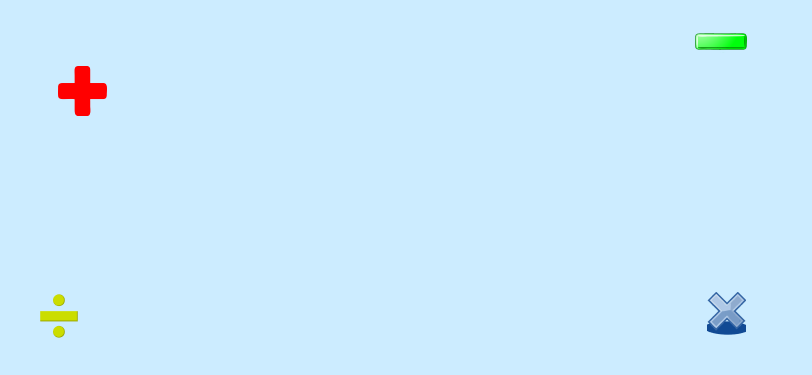
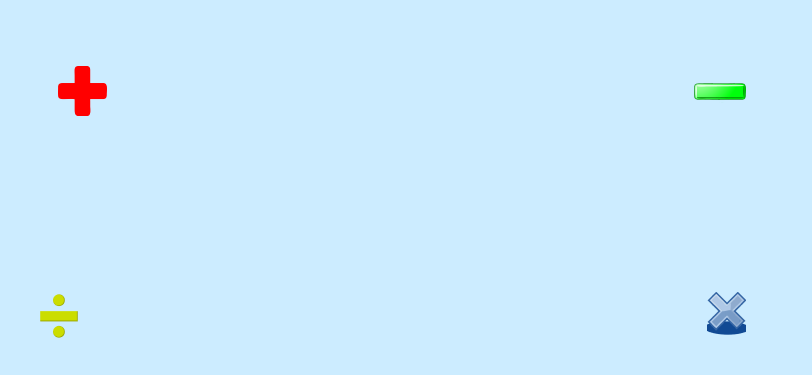
replacement of play screen back button and operation select screen, added home screen modal close button

Changed region(s): [[0.8313, 0.2053, 0.9236, 0.264], [0.8313, 0.088, 0.9236, 0.1467]]

diff --git a/src/components/ModalPlayTutorial/index.tsx b/src/components/ModalPlayTutorial/index.tsx
@@ -1,10 +1,11 @@
-import React from 'react';
-import { Modal,ModalProps } from 'react-native';
+import React, { useState } from 'react';
+import { Modal, ModalProps, View } from 'react-native';
+import { Feather } from '@expo/vector-icons';
 
 import iconControle from '../../assets/iconcontrole.png';
 import iconplay from '../../assets/play.png';
 
-import{
+import {
   ContainerModal,
   ContentModal,
   HeaderModal,
@@ -14,55 +15,64 @@ import{
   ButtonTutorial,
   TextButtonStart,
   TextButtonTutorial,
-  Icon
+  Icon,
+  ButtonCancel
 } from './styles';
 
-interface modalProps extends ModalProps{
-  title:string;
-  visibliModal:boolean;
-  handleNavigation:() => void;
-  handleNavigationPlay:() => void;
+interface modalProps extends ModalProps {
+  title: string;
+  handleNavigation: () => void;
+  handleNavigationPlay: () => void;
+  handleOpenModal: () => void;
 }
 export function ModalPlayTutorial({
-  title, 
-  visibliModal,
+  title,
   handleNavigation,
-  handleNavigationPlay
-}:modalProps){
-  return(
+  handleNavigationPlay,
+  handleOpenModal
+}: modalProps) {
+
+
+  return (
     <>
-      <Modal
-        animationType='slide'
-        transparent
-        visible={visibliModal}
-      >
-        <ContainerModal>
-          <ContentModal>
-            <HeaderModal>
-              <TitleModal>{title}</TitleModal>
-            </HeaderModal>
-
-            <ModalOptions>
-              <Icon
-                source={iconplay}
+      <ContainerModal>
+        <ContentModal>
+          <HeaderModal>
+            <ButtonCancel onPress={() => handleOpenModal()}>
+              <Feather
+                name='x-circle'
+                size={25}
+                color='#7018C9'
               />
-              <ButtonTutorial onPress={()=> handleNavigation()}>
-                <TextButtonTutorial>Ver tutoria</TextButtonTutorial>
-              </ButtonTutorial>
-            </ModalOptions>
+            </ButtonCancel>
+            <TitleModal>{title}</TitleModal>
+
+            <View />
+          </HeaderModal>
+
+          <ModalOptions>
+            <Icon
+              source={iconplay}
+            />
+            <ButtonTutorial onPress={() => handleNavigation()}>
+              <TextButtonTutorial>Ver tutorial</TextButtonTutorial>
+            </ButtonTutorial>
+          </ModalOptions>
 
 
-            <ModalOptions>
-              <Icon
-                source={iconControle}
-              />
-              <ButtonStart onPress={()=> handleNavigationPlay()}>
-                <TextButtonStart>Jogar</TextButtonStart>
-              </ButtonStart>
-            </ModalOptions>
-          </ContentModal>
-        </ContainerModal>
-      </Modal>
+          <ModalOptions>
+            <Icon
+              source={iconControle}
+            />
+            <ButtonStart onPress={() => handleNavigationPlay()}>
+              <TextButtonStart>Jogar</TextButtonStart>
+            </ButtonStart>
+          </ModalOptions>
+
+          <ButtonCancel>
+          </ButtonCancel>
+        </ContentModal>
+      </ContainerModal>
     </>
   )
 }

diff --git a/src/screens/Home/index.tsx b/src/screens/Home/index.tsx
@@ -1,9 +1,9 @@
 import React, { useEffect, useState } from 'react';
-import { StatusBar, BackHandler, Alert } from 'react-native';
+import { Modal, StatusBar, BackHandler, Alert } from 'react-native';
 import { Feather } from '@expo/vector-icons';
 import { useNavigation } from '@react-navigation/native';
 
-import {ModalPlayTutorial} from '../../components/ModalPlayTutorial';
+import { ModalPlayTutorial } from '../../components/ModalPlayTutorial';
 
 import ImageBackGround from '../../assets/Home.png';
 import logo from '../../assets/Logo.png';
@@ -28,14 +28,18 @@ export function Home() {
   const navigation = useNavigation();
 
   const [modalvisible, setModalvisible] = useState(false);
-  
-  
-  function handlenaviagtion(route:string){
-    setModalvisible(false);
+
+
+  function handlenaviagtion(route: string) {
+    setModalvisible(state => (!state));
     navigation.navigate(route);
   }
-  
-  
+
+  function handlemodal() {
+    setModalvisible(state => (!state));
+  }
+
+
   const backAction = () => {
     Alert.alert('Sair', 'Deseja sair do jogo?', [
       {
@@ -56,14 +60,21 @@ export function Home() {
   }, []);
   return (
     <>
-      <StatusBar backgroundColor='#CCECFF' barStyle='dark-content'/>
+      <StatusBar backgroundColor='#CCECFF' barStyle='dark-content' />
       <Container source={ImageBackGround} resizeMode='stretch'>
-        <ModalPlayTutorial
-          title='Selecione uma opção'
-          visibliModal={modalvisible}
-          handleNavigation={()=> handlenaviagtion('tutorialIntroduction')}
-          handleNavigationPlay={()=> handlenaviagtion('selectOperations')}
-        />
+        <Modal
+          animationType='slide'
+          transparent
+          visible={modalvisible}
+        >
+          <ModalPlayTutorial
+
+            title='Selecione uma opção'
+            handleNavigation={() => handlenaviagtion('tutorialIntroduction')}
+            handleNavigationPlay={() => handlenaviagtion('selectOperations')}
+            handleOpenModal={()=> handlemodal()}
+          />
+        </Modal>
         <Header>
           <ContainerMenu>
             <ButtonOptions>
@@ -91,7 +102,7 @@ export function Home() {
         <Footer>
           <ContentFooter>
             <ImgControl source={iconcontrole} />
-            <ButtonStart style={{elevation:20}} onPress={() => setModalvisible(true)}>
+            <ButtonStart style={{ elevation: 20 }} onPress={() => setModalvisible(true)}>
               <TextButtonStart>Iniciar</TextButtonStart>
             </ButtonStart>
           </ContentFooter>

diff --git a/src/screens/Play/index.tsx b/src/screens/Play/index.tsx
@@ -1,5 +1,5 @@
 import React, { useEffect, useState, useCallback } from 'react';
-import { ScrollView, ImageSourcePropType, Alert, BackHandler } from 'react-native';
+import { ScrollView, ImageSourcePropType, Alert, BackHandler, StatusBar } from 'react-native';
 import { Feather } from '@expo/vector-icons';
 import { useNavigation, useRoute } from '@react-navigation/native';
 import { ModalAnswer } from '../../components/ModalAnswer';
@@ -8,7 +8,7 @@ import { ModalAnswerError } from '../../components/ModalAnswerError';
 import { Load } from '../../components/Load';
 
 import logo from '../../assets/Logo.png';
-import home from '../../assets/home.png';
+import home from '../../assets/bntVoltar.png';
 import equal from '../../assets/igual.png';
 import interrogation from '../../assets/interrogacao.png';
 
@@ -274,6 +274,8 @@ export function play() {
   //   return <Load />
 
   return (
+    <>
+    <StatusBar /> 
     <ScrollView>
       <Container>
         <ModalAnswer
@@ -340,5 +342,6 @@ export function play() {
         </ContainerAlternatives>
       </Container>
     </ScrollView>
+    </>
   );
 }

diff --git a/src/screens/SelectOperations/index.tsx b/src/screens/SelectOperations/index.tsx
@@ -4,7 +4,7 @@ import { useNavigation } from '@react-navigation/native';
 import { CardPrimary } from '../../components/CardsPrimary';
 import { Alert, BackHandler } from 'react-native';
 
-import imageGoBack from '../../assets/bntVoltar.png';
+import imageGoBack from '../../assets/home.png';
 import addition from '../../assets/adicao.png';
 import subtraction from '../../assets/subtracao.png';
 import division from '../../assets/divisao.png';
@@ -54,7 +54,7 @@ export function selectOperations() {
   return (
     <Container>
       <ContentHeader>
-        <ButtonGoBack onPress={() => navigation.goBack()}>
+        <ButtonGoBack onPress={() => navigation.navigate('Home')}>
           <ImageButtonGoBack source={imageGoBack} />
         </ButtonGoBack>
         <Title>Selecione uma operação</Title>

diff --git a/src/components/ModalPlayTutorial/styles.ts b/src/components/ModalPlayTutorial/styles.ts
@@ -14,7 +14,7 @@ export const ContentModal = styled.View`
   align-items: center;
   justify-content: space-between;
 
-  padding: 20px;
+  padding: 10px 20px;
 
   width:60%;
   border-radius:15px;
@@ -26,10 +26,15 @@ export const ContentModal = styled.View`
 
 export const HeaderModal = styled.View`
   margin-bottom: 10%;
+  flex-direction: row;
+  align-items: center;
+  justify-content: space-between;
+
+  width: 100%;
 `;
 
 export const TitleModal = styled.Text`
-  font-size: 30px;
+  font-size: 25px;
   font-weight: bold;
   color: #7018C9;
 `;
@@ -83,4 +88,8 @@ export const Icon = styled.Image`
 
   width: 48px;
   height: 40px;
+`;
+
+export const ButtonCancel = styled.TouchableOpacity`
+
 `;

diff --git a/src/screens/Play/styles.ts b/src/screens/Play/styles.ts
@@ -18,8 +18,8 @@ export const Header = styled.View`
 export const ButtonGoBackHome = styled.TouchableOpacity``;
 
 export const IconHome = styled.Image`
-  width: 40px;
-  height: 40px;
+  width: 45px;
+  height: 35px;
 `;
 
 export const Logo = styled.Image`
@@ -85,7 +85,7 @@ export const ContainerAlternatives = styled.View`
 
   width: 100%;
 
-  margin-top: 10%;
+  margin-top: 5%;
 `;
 
 export const CardAlternative = styled.TouchableOpacity`

diff --git a/src/screens/SelectOperations/styles.ts b/src/screens/SelectOperations/styles.ts
@@ -22,8 +22,8 @@ export const Title = styled.Text`
 export const ButtonGoBack = styled.TouchableOpacity``;
 
 export const ImageButtonGoBack = styled.Image`
-  width: 45px;
-  height: 35px;
+  width: 40px;
+  height: 40px;
 `;
 
 export const ButtonOptions = styled.TouchableOpacity`
